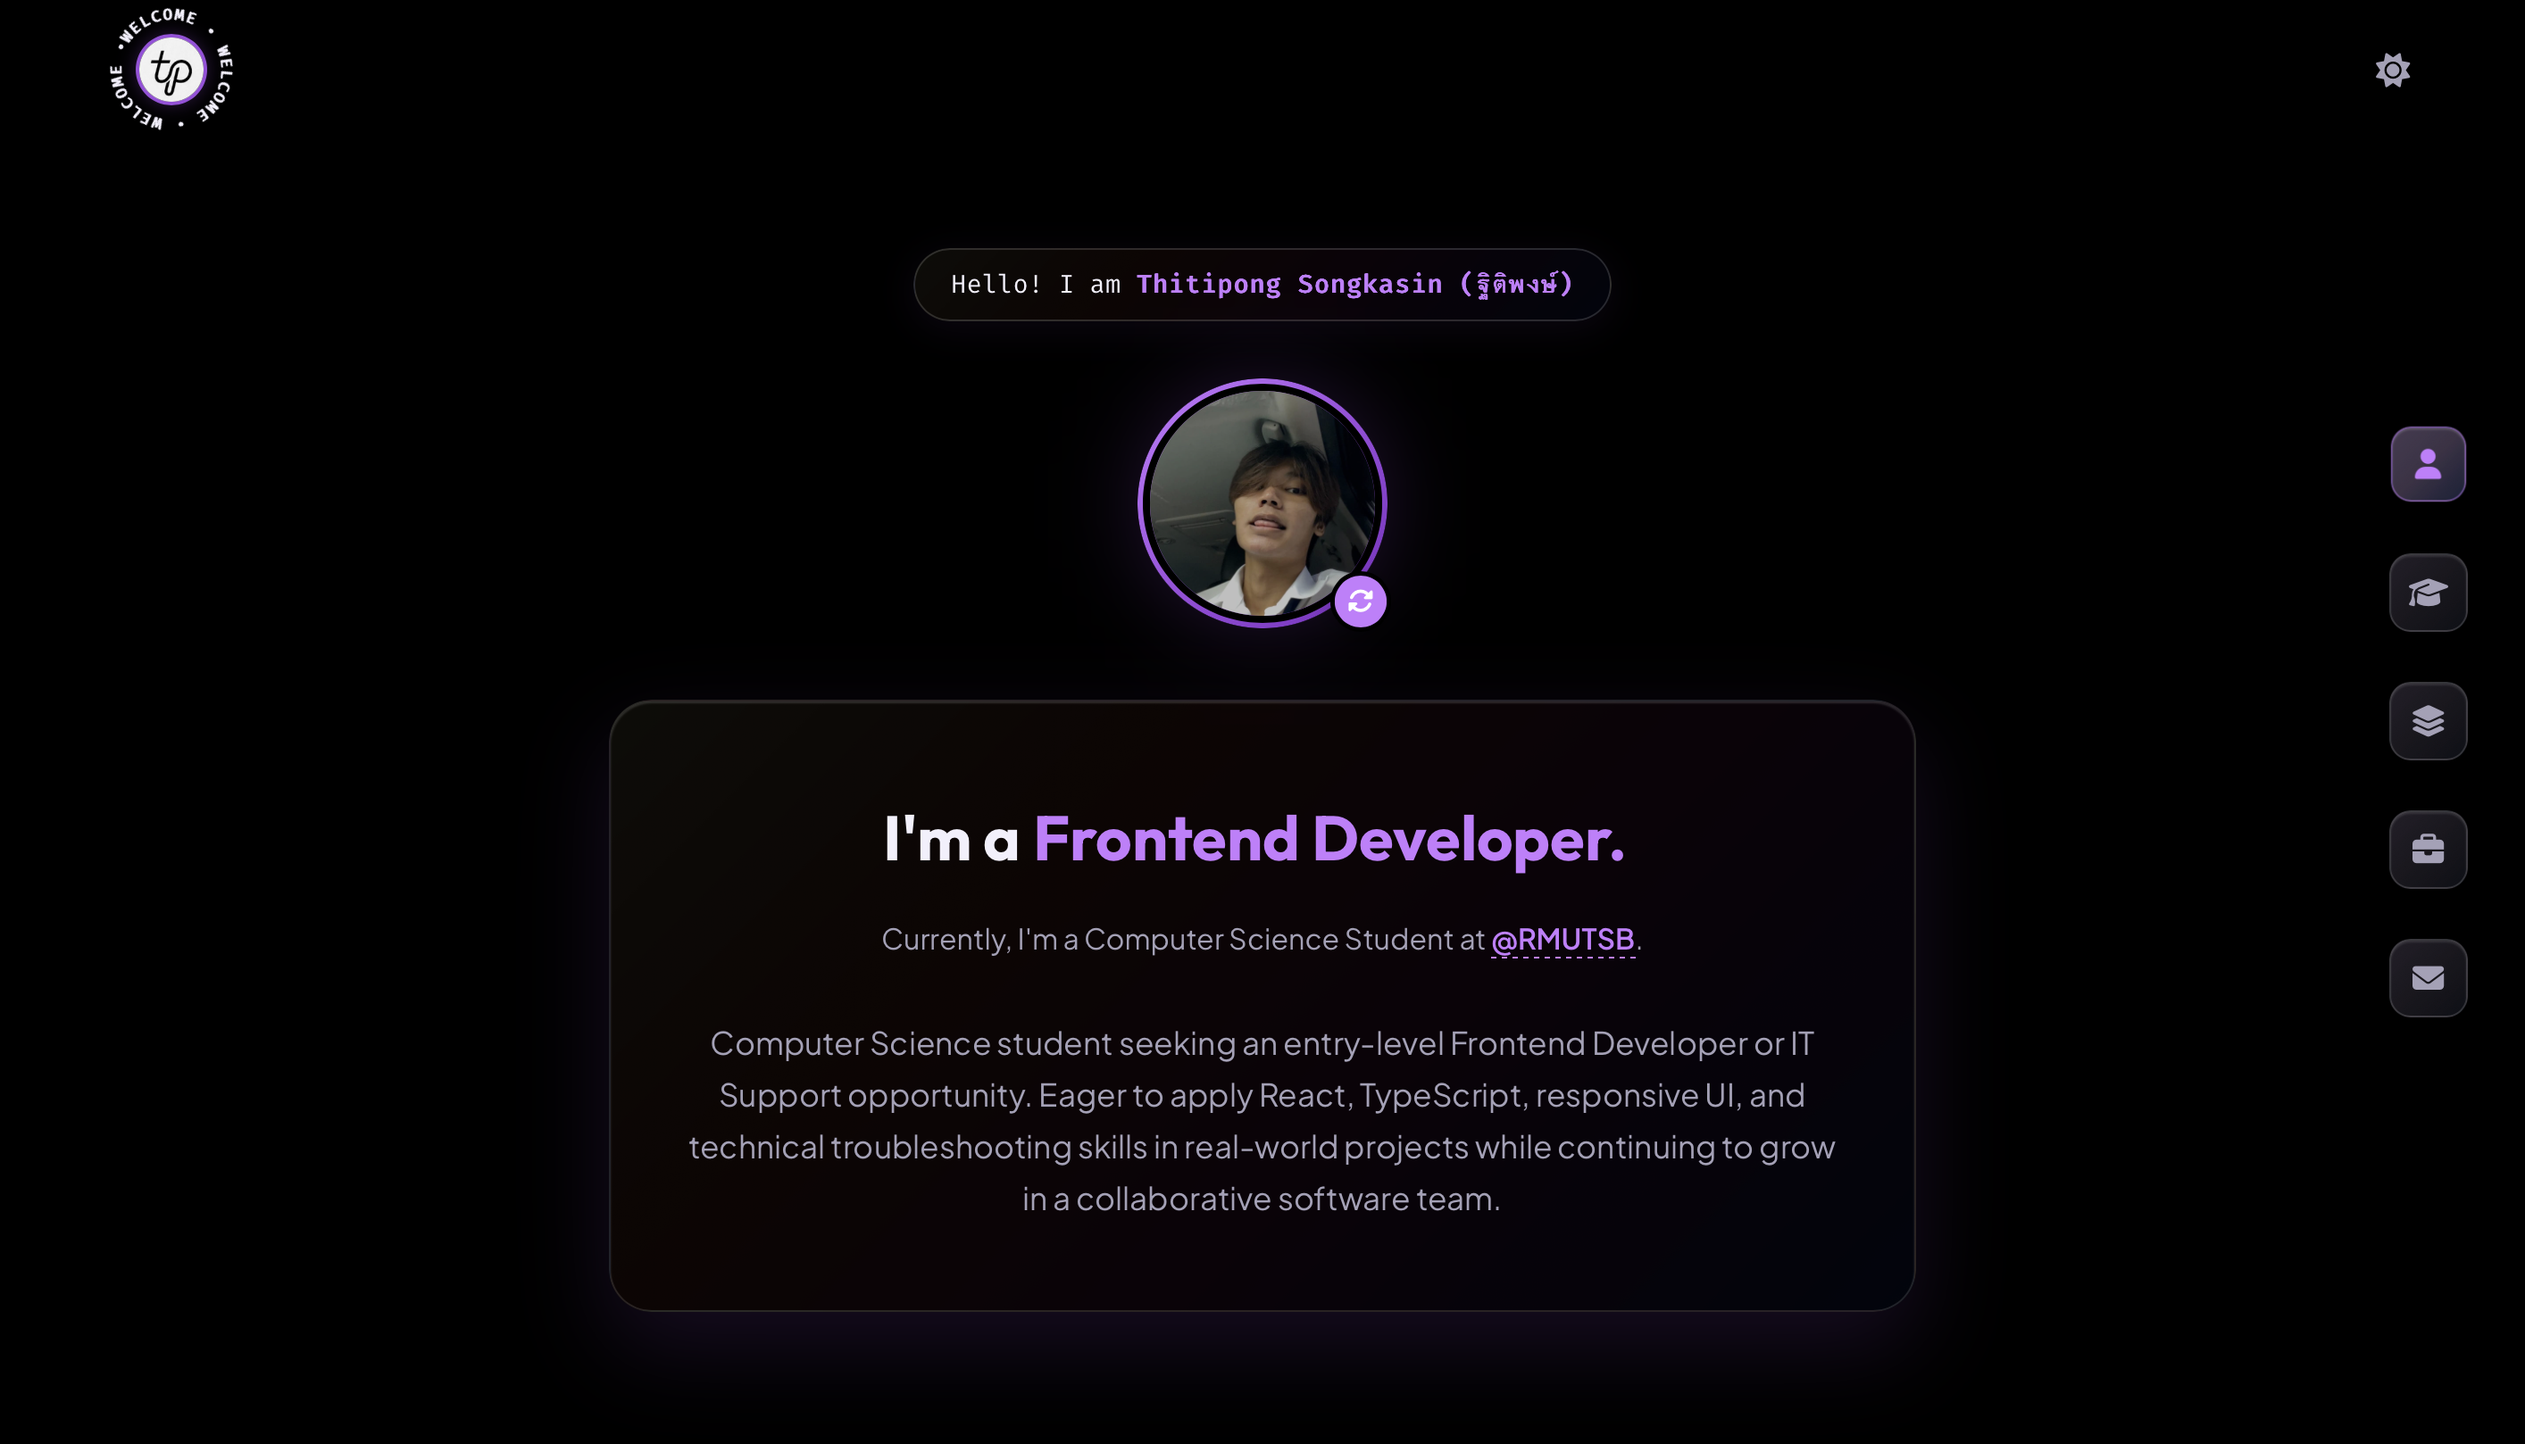
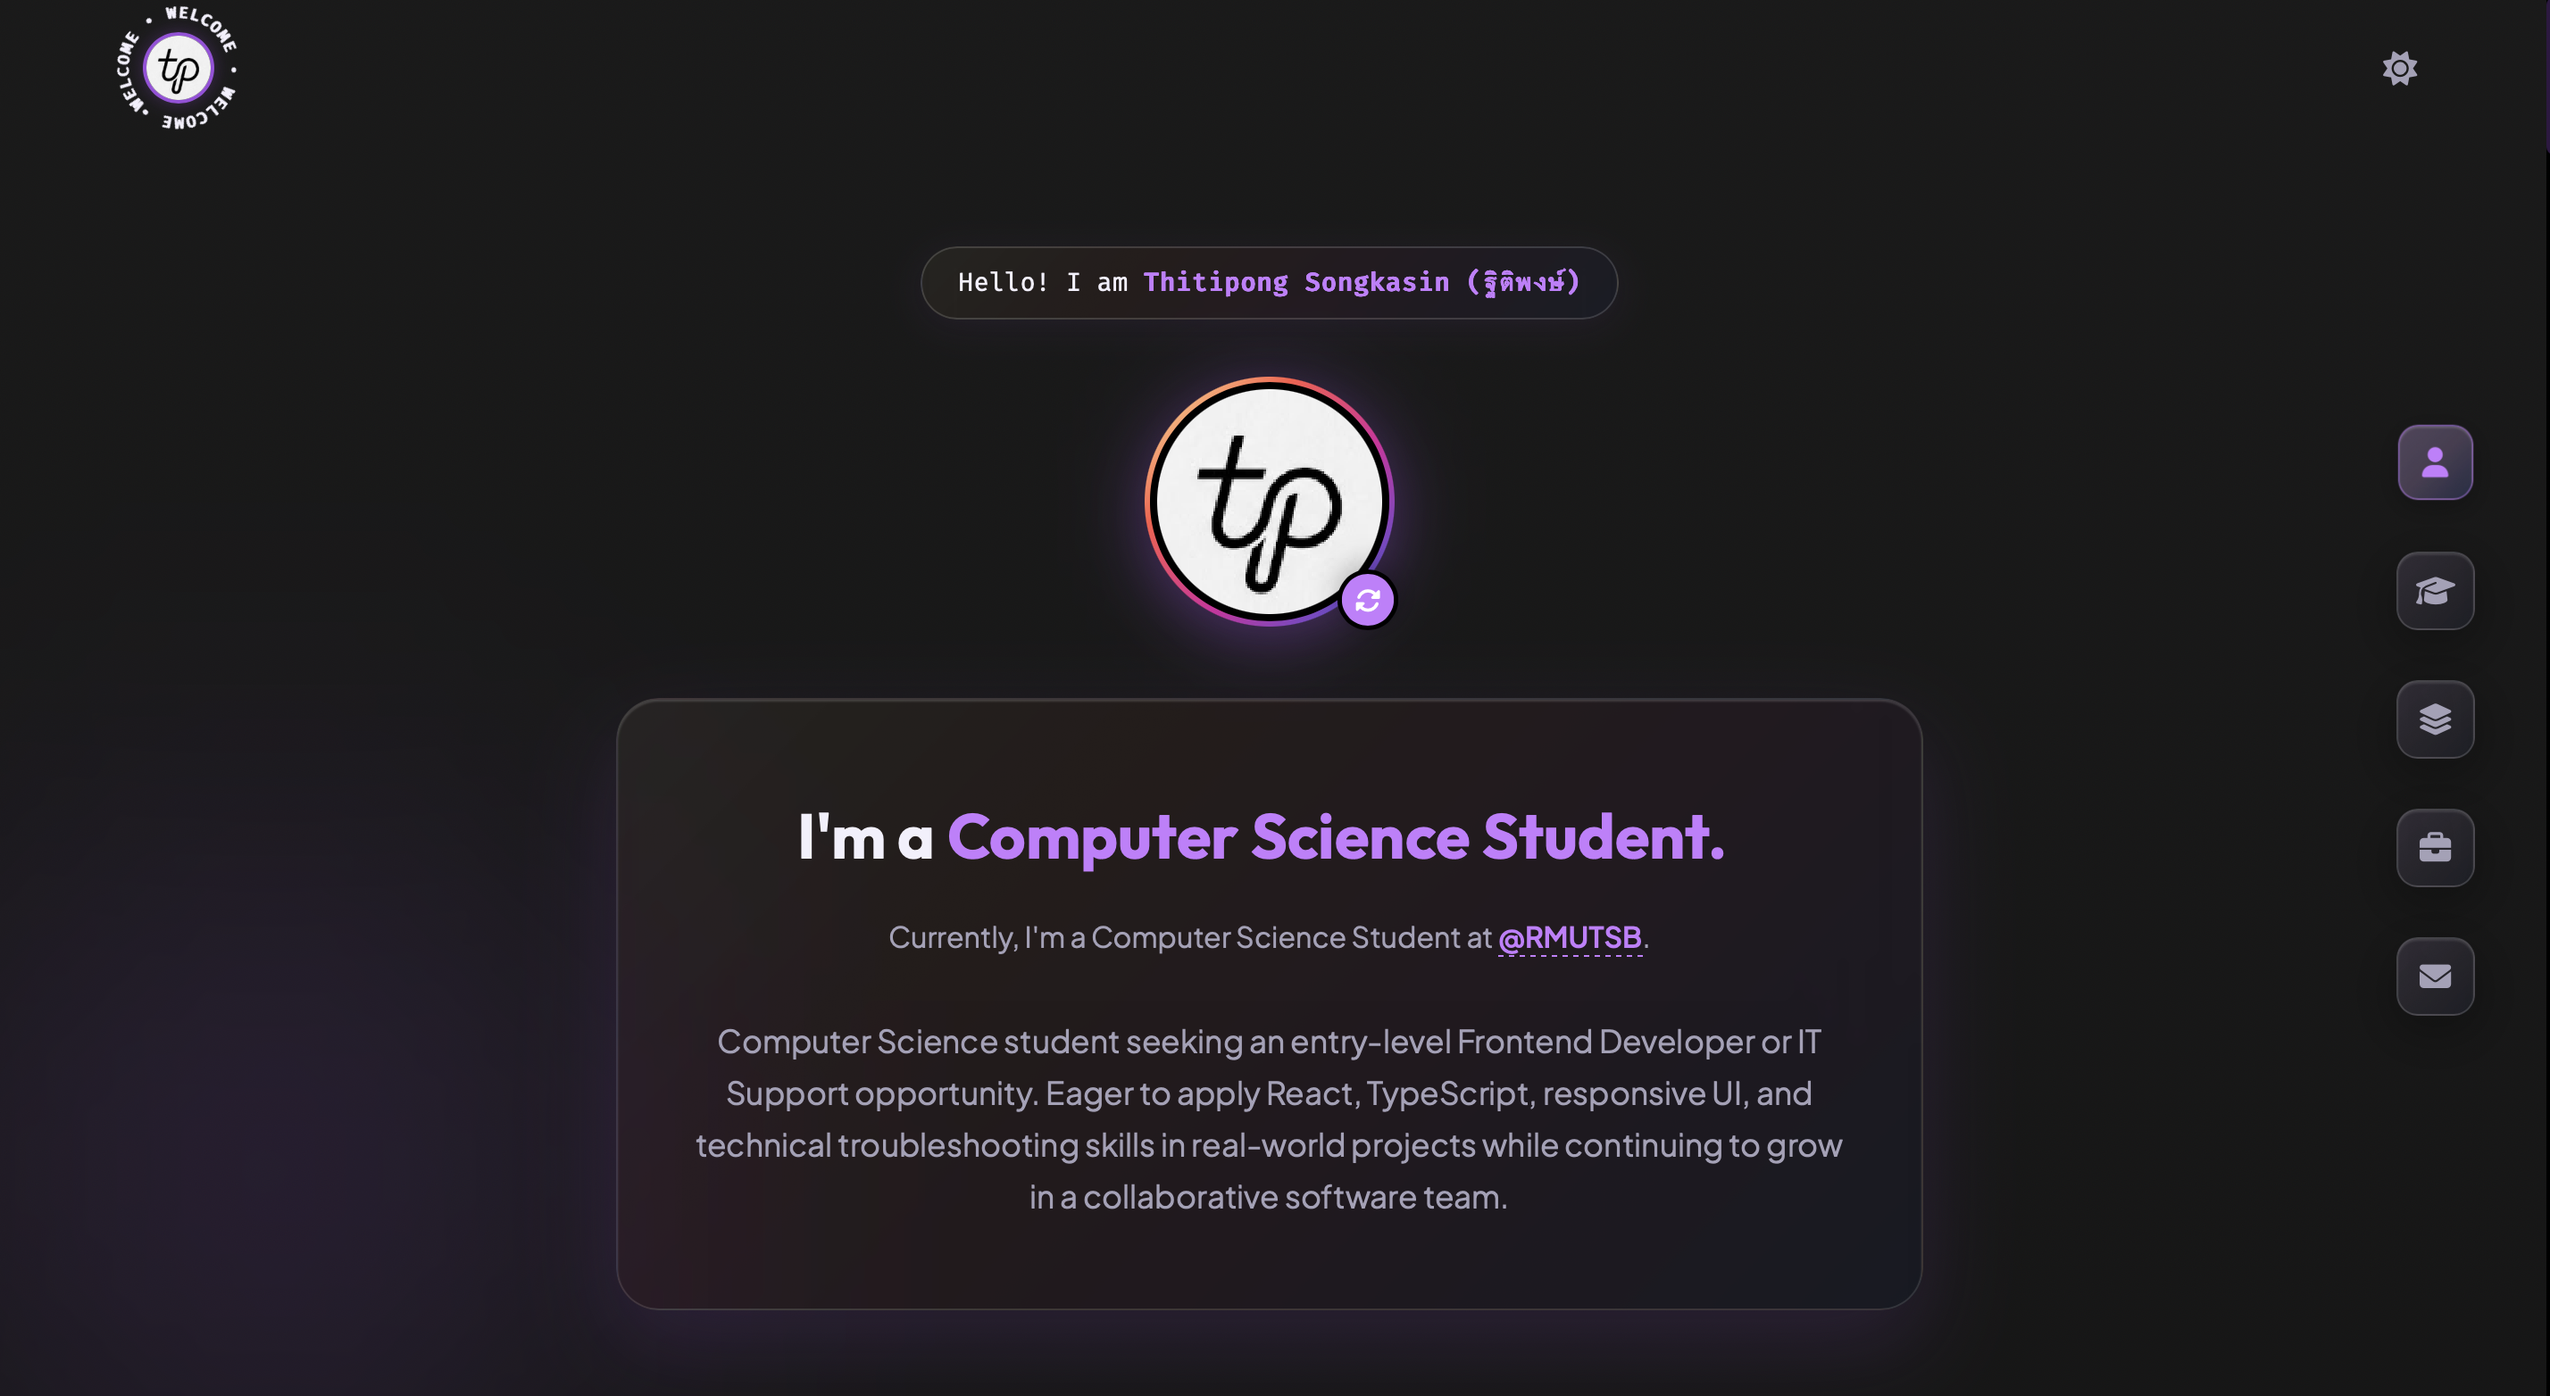
update: remove todolist, fix portfolio img, add nyeta gallery

diff --git a/src/App.tsx b/src/App.tsx
@@ -822,37 +822,17 @@ function App() {
                         <a href="https://nyeta.vercel.app/" target="_blank" rel="noopener noreferrer" className="proj-link" aria-label="Live Demo"><i className="fa-solid fa-arrow-up-right-from-square"></i></a>
                     </div>
                 </div>
-                <div className="project-image-container">
-                    <a href="https://nyeta.vercel.app/" target="_blank" rel="noopener noreferrer" style={{ display: 'block', width: '100%', height: '100%' }}>
+                <div className="project-image-container" style={{ backgroundColor: '#111', padding: '1.5rem', aspectRatio: '16/9' }}>
+                    <a href="https://nyeta.vercel.app/" target="_blank" rel="noopener noreferrer" style={{ display: 'flex', width: '100%', height: '100%', gap: '4%', justifyContent: 'center', alignItems: 'center' }}>
                         <div className="project-image-glow"></div>
-                        <div className="project-img" style={{ backgroundColor: '#ffffff', aspectRatio: '16/9', borderRadius: '12px' }}></div>
+                        <img src="assets/nyeta-1.png" alt="Nyeta Home" style={{ height: '100%', width: 'auto', objectFit: 'contain', borderRadius: '12px', boxShadow: '0 8px 24px rgba(0,0,0,0.4)', zIndex: 1 }} loading="lazy" />
+                        <img src="assets/nyeta-2.png" alt="Nyeta Scanner" style={{ height: '100%', width: 'auto', objectFit: 'contain', borderRadius: '12px', boxShadow: '0 8px 24px rgba(0,0,0,0.4)', zIndex: 1 }} loading="lazy" />
+                        <img src="assets/nyeta-3.png" alt="Nyeta Call" style={{ height: '100%', width: 'auto', objectFit: 'contain', borderRadius: '12px', boxShadow: '0 8px 24px rgba(0,0,0,0.4)', zIndex: 1 }} loading="lazy" />
                     </a>
                 </div>
             </div>
 
-            {/*  Project 5: TodoList Website  */}
-            <div className="project-item">
-                <div className="project-content">
-                    <span className="project-tag">Featured Project</span>
-                    <h3 className="project-title">TodoList Website (2025)</h3>
-                    <div className="project-description">
-                        <p>Full-stack task management app with Pending / In Progress / Completed states, a dashboard, and authentication.</p>
-                    </div>
-                    <div className="project-tech-list">
-                        <span>React</span>
-                        <span>TypeScript</span>
-                        <span>PostgreSQL</span>
-                    </div>
-                    <div className="project-links">
-                        <a href="https://github.com/TTthiti01" target="_blank" className="proj-link" aria-label="GitHub"><i className="fa-brands fa-github"></i></a>
-                        <a href="http://localhost:3000/backoffice/home/todo" target="_blank" className="proj-link" aria-label="Live Demo"><i className="fa-solid fa-arrow-up-right-from-square"></i></a>
-                    </div>
-                </div>
-                <div className="project-image-container">
-                    <div className="project-image-glow"></div>
-                    <img src="assets/Todolist.png" alt="TodoList Website Dashboard" className="project-img" loading="lazy" decoding="async" />
-                </div>
-            </div>
+
 
             </section>
 
